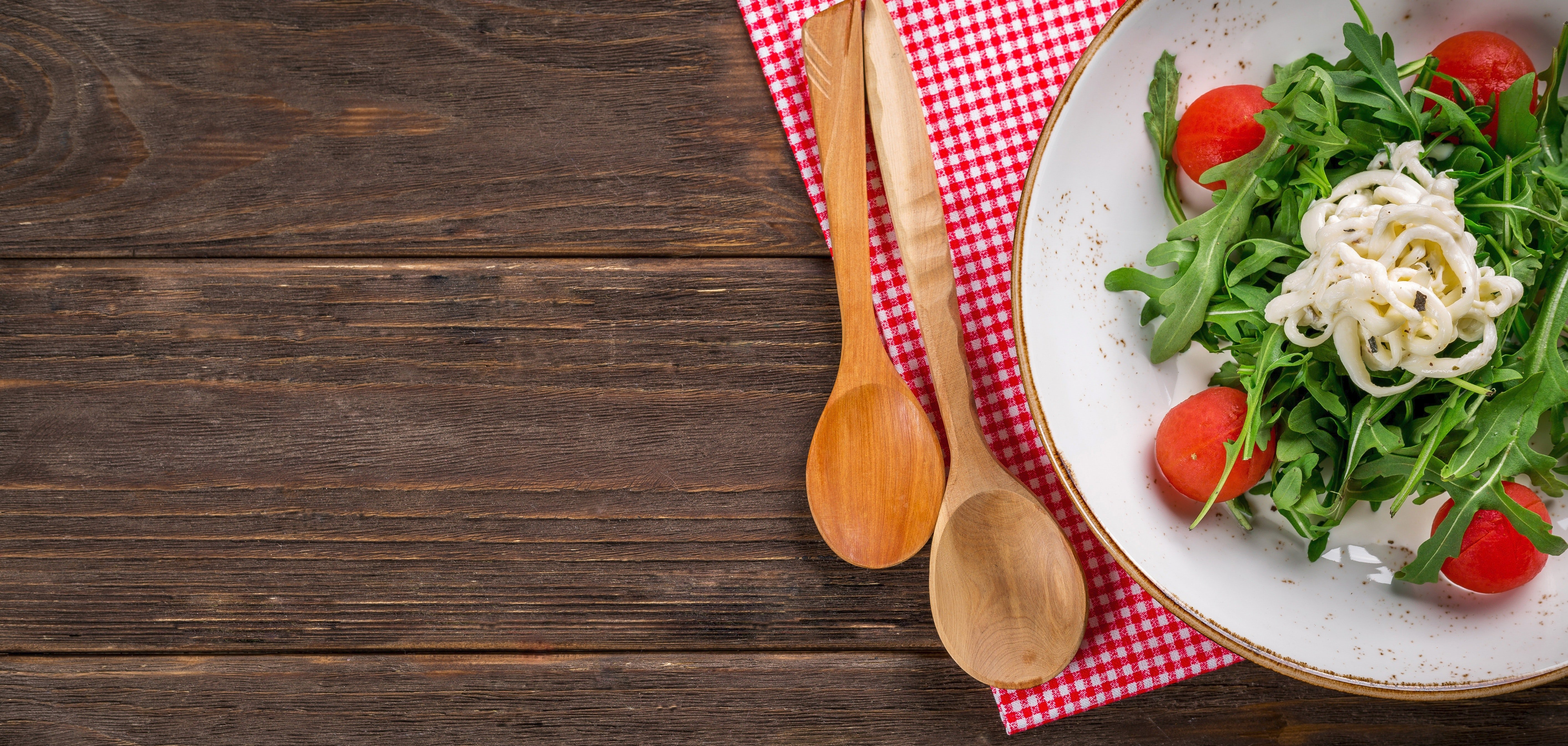
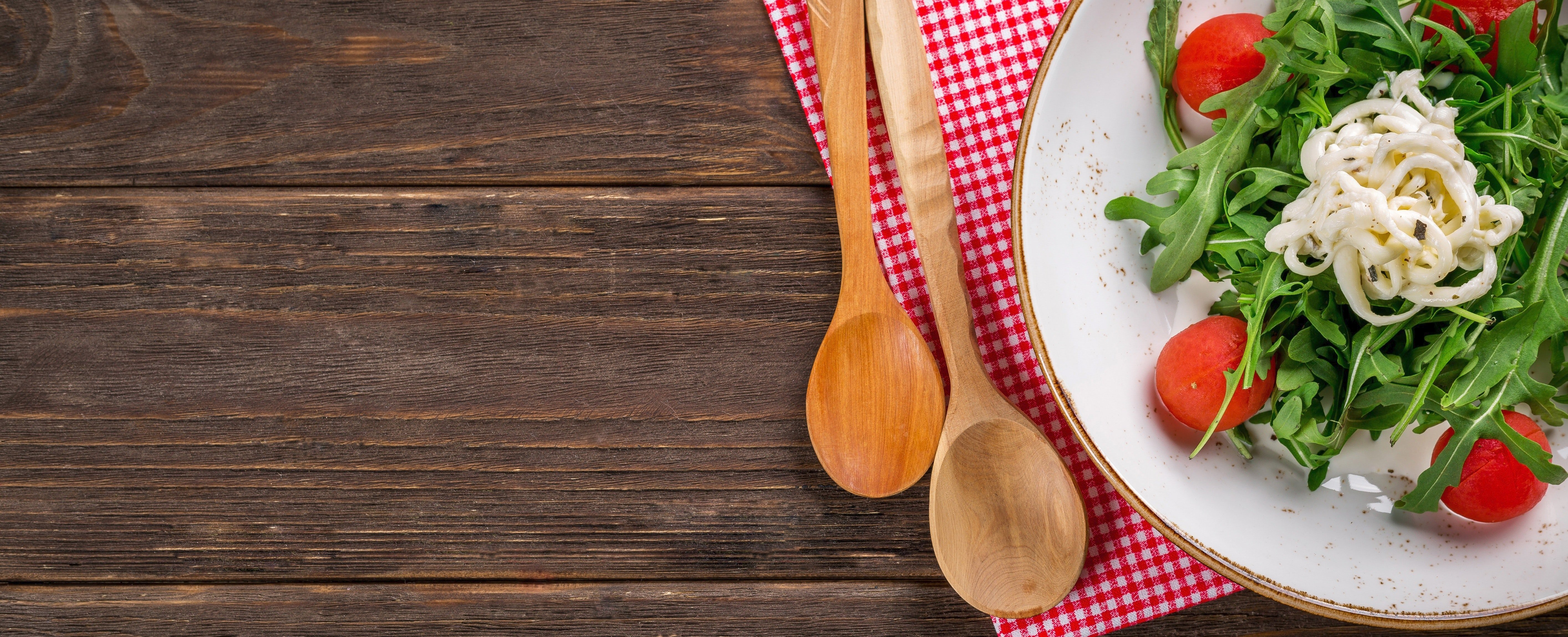
Change home image, added second component (description)

diff --git a/src/components/Home/SecondComponent.js b/src/components/Home/SecondComponent.js
@@ -1,20 +1,35 @@
 import React from "react";
 import { Grid, Cell, FontIcon } from 'react-md';
+import choose from './choose.png';
+import cook from './cook.png';
+import deliver from './delivery.png';
 
 export default () => {
     return (
-    	<Grid>
+    	<Grid className="second-component">
     		<Cell size={4} phoneSize={12}>
-    			<div>
-			    	<FontIcon >fastfood</FontIcon>
-			    	<p> Choose meal </p>
-			    </div>
+    			<Grid>
+			    	<img src={choose} className="image"/>
+			    </Grid>
+                <Grid className="description">
+                    <p>How it works</p>
+                </Grid>
     		</Cell>
     		<Cell size={4} phoneSize={12}>
-    			It works
+                <Grid>            
+    			  <img src={cook} className="image"/>
+                </Grid>
+                <Grid className="description">
+                    <p> It works </p>
+                </Grid>
     		</Cell>
     		<Cell size={4} phoneSize={12}>
-    			Like this
+                <Grid>            
+                  <img src={deliver} className="image"/>
+                </Grid>
+                <Grid className="description">
+                    <p> Like this </p>
+                </Grid>
     		</Cell>
     	</Grid>
     )

diff --git a/src/components/Home/FirstComponent.js b/src/components/Home/FirstComponent.js
@@ -4,11 +4,8 @@ import image1 from './home-meal.jpg';
 
 export default () => {
     return (
-	    	<Media aspectRatio="16-9">
-	    		<img src={image1}/>
-	    			<MediaOverlay>
-						<CardTitle title="Wow. Amazing." />
-					</MediaOverlay>
-	    	</Media>
+    	<Grid size={12}  className="home-image">
+	  		<img src={image1}/>
+	  	</Grid>
     )
 }

diff --git a/src/views/Home.js b/src/views/Home.js
@@ -8,6 +8,7 @@ import ThirdComponent from "../components/Home/ThirdComponent";
 import FourthComponent from "../components/Home/FourthComponent";
 import FifthComponent from "../components/Home/FifthComponent";
 import ReactPageScroller from "react-page-scroller";
+import '../components/Home//home.css'
 
 export class Home extends React.Component {
 
